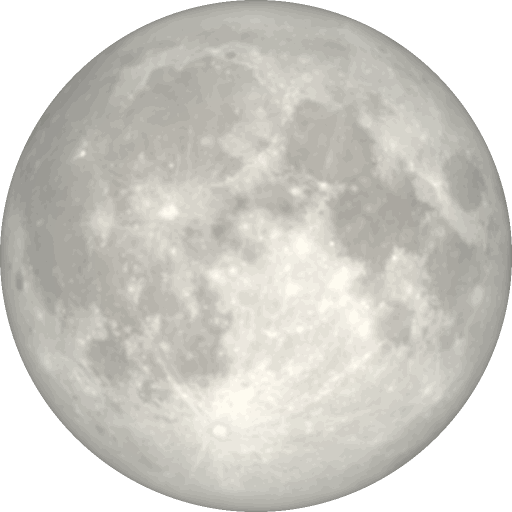
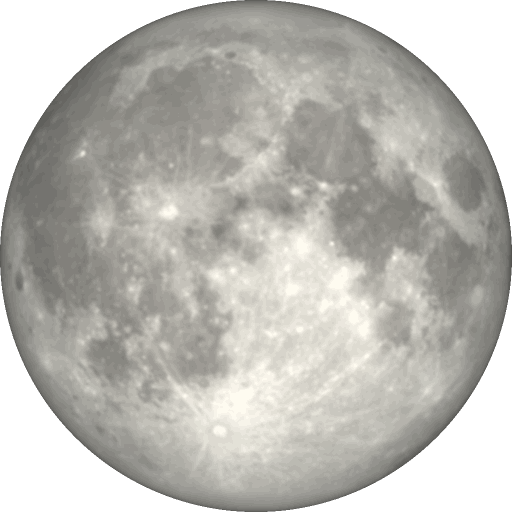
Moon: levels lift 0.5 → 0.28 so the maria sit at ≈ 0.55 and the rabbit is findable
At LIFT 0.5 the inner disc measured p10 0.68 / median 0.78 / p90 0.91
(encoded luma): a flat white ball with a maria/highland ratio of 0.75
against the bible's 0.61. Rebuilt at 0.28: p10 0.58, p25 0.61, median
0.71, p90 0.91, max 0.983 (moonBody 0.965 linear), 40.7 KB. V3's
luminance order keeps its headroom (0.98 vs paper 0.81).

Contract comments catch up with the shipped constants: moon.ts maria
≈ 0.55; types.ts home pool 0.22 in paperHot and the 4096×128 strip.

Claude-Session: https://claude.ai/code/session_01RiEWKKzm8Ggq22X5xGX1MX

diff --git a/personal-website/components/festival/scene/types.ts b/personal-website/components/festival/scene/types.ts
@@ -330,7 +330,7 @@ export interface FrameContext {
   dt: number;
   viewport: Viewport;
   mobile: boolean;
-  /** `/`: no halo, pool 0.10, theme ignored. */
+  /** `/`: no halo, pool `light.pool.peakHome` (0.22 in paperHot), theme ignored. */
   home: boolean;
   /** `uNight` 0..1 (damped λ 8 across a theme switch). */
   night: number;
@@ -362,7 +362,7 @@ export interface LanternObjects {
   dispose(): void;
 }
 
-/** lantern.ts: the 走马灯 strip, 4096×256, built after `document.fonts.ready`. */
+/** lantern.ts: the 走马灯 strip (`SHADOW_STRIP`, 4096×128), built after `document.fonts.ready`. */
 export type ShadowStripBuilder = (
   titles: readonly string[],
   fontFamily: string,
@@ -487,7 +487,7 @@ export interface RouteLayout {
   navBottom: number;
   /** Additive halo allowed (false on `/`). */
   halo: boolean;
-  /** Pool peak alpha in the night state (0.14, or 0.10 on `/`). */
+  /** Pool peak alpha in the night state (`light.pool.peakDark` 0.14, or `peakHome` 0.22 on `/`). */
   poolPeak: number;
   /** `/` pins `uNight = 1`, `uLit = 1` and ignores `THEME_EVENT`. */
   ignoresTheme: boolean;

diff --git a/personal-website/components/festival/scene/moon.ts b/personal-website/components/festival/scene/moon.ts
@@ -8,7 +8,7 @@
  *
  * The texture is `public/festival/moon-nearside-512.png` (built by
  * `scripts/build-moon-texture.mjs`, which bakes the `pow(1 − r², 0.35)` limb
- * darkening and the levels: highlands ≈ 0.9, maria ≈ 0.5 of `moonBody`);
+ * darkening and the levels: highlands ≈ 0.9, maria ≈ 0.55 of `moonBody`);
  * `loadMoonTexture()` returns a 1×1 ivory placeholder that swaps to the PNG
  * when it arrives. The shader applies no second limb term.
  *
